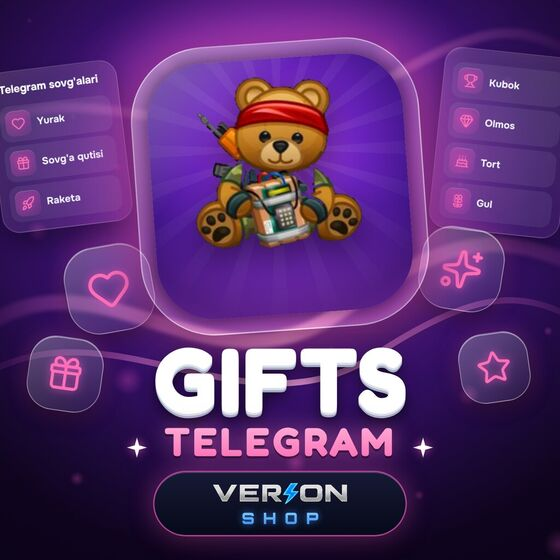
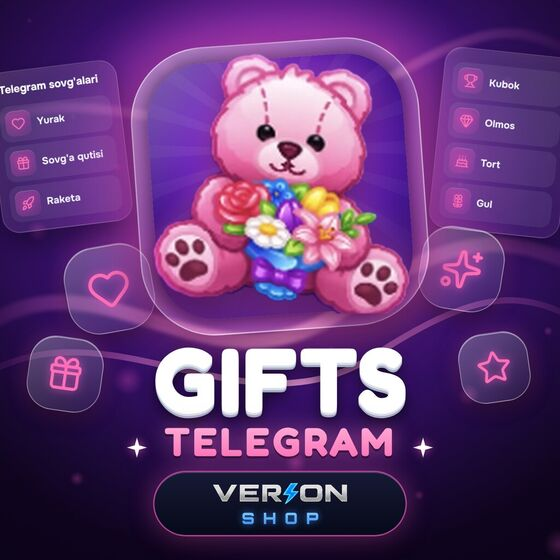
v3.36: AI muqovalar (Stars, Premium, Steam) va pushti ayiqli Gifts muqovasi
Stars, Premium va Steam muqovalari egasi bergan AI rasmlar bilan
almashtirildi, bo'sh joyga VERION SHOP logosi qo'yildi. Gifts muqovasi
o'zimizning dizaynda, o'rtada pushti ayiqcha katta qilib qo'yildi.
Landing uchun kichik rasmlar ham yangilandi.

Claude-Session: https://claude.ai/code/session_01CbtuoV2biNfcxKy98shqWf

Changed region(s): [[0.2732, 0.0911, 0.7286, 0.6071]]

diff --git a/server.js b/server.js
@@ -14,7 +14,7 @@ const ADMIN_IDS = (process.env.ADMIN_IDS || "5606872249,8684274899")
 /* Deploy belgisi — Railway rostdan yangi kodni ko'tardimi yoki eski build turibdimi,
    shuni ko'rish uchun. Profil ekranida ID ostida ko'rinadi (server/ilova alohida).
    Kod o'zgarganda shu satrni yangilab qo'yiladi. */
-const BUILD = "2026-11-06.8";
+const BUILD = "2026-11-06.9";
 // Har ishga tushishda yangi tasodifiy belgi — /api/health orqali "bu manzil aynan
 // SHU serverga olib keladimi" tekshiruvi uchun (maxfiy emas).
 const INSTANCE_ID = crypto.randomBytes(8).toString("hex");

diff --git a/verion-shop.html b/verion-shop.html
@@ -2827,7 +2827,7 @@ var ADMIN_IDS=[5606872249, 8684274899];
 /* Deploy belgisi — Profil ekranida ID ostida ko'rinadi. Ikkita raqam bo'ladi:
    birinchisi shu HTML fayl (Telegram keshi eski bo'lsa eskiligicha qoladi),
    ikkinchisi server (Railway). Ikkalasi bir xil bo'lmasa — kesh yoki deploy eski. */
-var CLIENT_BUILD="2026-11-06.8";
+var CLIENT_BUILD="2026-11-06.9";
 
 /* ===== Telegram init (guarded) ===== */
 var TG=null;

diff --git a/README.md b/README.md
@@ -381,6 +381,7 @@ Ko'rinishi ilova mavzusidan qat'i nazar doim to'q: grafit fon, Unbounded (sarlav
 - **v3.20 — Telegram Premium: kimga olishni tanlash + «Balans yetarli emas» oynasi:** `fulfill:"fragment_premium"` mahsulotlari endi alohida oqim (`openPremiumBuy`) orqali sotiladi: tepada Premium kartasi, `@USERNAME` + «Tekshirish» (`/api/fragment/check-user`, «O'zimga» tugmasi), tekshirilgach yashil karta (ism, @username, «O'zgartirish»); qabul qiluvchida Premium allaqachon bo'lsa — sariq ogohlantirish va xarid bloklanadi; paketlar (3/6/12 oy) kartochkalarda tanlanadi. Xarid yangi `POST /api/buy-premium {itemId, username}` orqali: eski `/api/buy` Premium'ni faqat xaridorning o'ziga yuborar edi. Pul `reserveBalance` bilan band qilinadi, Fragment aniq rad etsa qaytariladi, aloqa uzilsa buyurtma «kutilmoqda» bo'ladi; «allaqachon Premium» javobi `409 already_premium` (adminga signal ketmaydi). Telegram bo'limida bir nechta Premium paketi BITTA «Telegram Premium» kartasiga jamlanadi (`productGridHTML`). Balans yetmasa hamma xarid oqimlarida (Premium, Stars, sovg'a, oddiy mahsulot) bitta oyna chiqadi (`openNeedBalance`): mahsulot narxi / balans / yetishmaydi + pastda «Yopish» va «Balansni to'ldirish» (to'lov sahifasi yetishmagan summa bilan ochiladi). Mahsulot oynalari endi to'liq ekranli sahifa (`openSheet(inner,backFn,{full:true})`: tepada «Orqaga», pastda qotgan harakat paneli `.fbar`): oddiy mahsulot, tasdiqlash, Stars, sovg'a, Premium va o'yin tasdiqlash. «Balans yetarli emas» endi mustaqil qatlam (`#nbOv`, `openNeedBalance(price)`): sahifa ostida joyida qoladi; oddiy mahsulot, o'yin, Stars, sovg'a, Premium, Nakrutka, Steam, virtual raqam va skinlarda bir xil chiqadi. Stars, Premium va sovg'ada «O'zimga» ingichka tugma (`.selfBtn`, `selfBtnHTML`). Premium paketlari katalogda bo'lishi uchun admin «Oddiy mahsulot» → «Yetkazish turi: Avto-Premium (Fragment)» bilan 3/6/12 oylik mahsulot qo'shadi.
 - **v3.22 — tayyor mahsulot muqovalari:** `assets/cover-*.jpg` (1024×1024; Stars, Premium, Sovg'alar, Virtual raqam, Steam, Gemini Pro, CS2, Dota 2, Rust) — bitta uslubda (shisha plitka, 3D markaziy narsa, ikki rangli sarlavha, pastda VERION SHOP). Admin rasm qo'ymagan joylarda ilova ularni o'zi ko'rsatadi: Virtual raqam, Steam, CS2/Dota 2/Rust kartalari (`DEF_COVER`, `cardImg()`; admin qo'ygan rasm doim ustun — `cardImgSet()`), Stars (`fragment_stars_custom`) va Premium (`fragment_premium`) mahsulot plitkasi (`tileHTML`). Admin qo'ygan rasm bo'lsa o'sha ko'rinadi: yangi muqovani almashtirish uchun mahsulotdagi ✏ → rasm. Muqovalar ilova ichidagi haqiqiy ekran (Virtual raqam telefon ichida), rasmiy Stars/Steam/Gemini belgilari va 3D emoji bilan yasalgan, tashqi servislarsiz.
 - **v3.35 — Virtual raqam va CS2 muqovalari:** Virtual raqam panellarida faqat Telegram va davlat raqamlari (+998, +7, +1, +44, +90, +62). CS2 panellarida qurollarning haqiqiy oq shakllari (o'yindagi kill-feed belgilari; manba: lexogrine/cs2-react-hud, MIT litsenziya): Karambit, Butterfly, M9 Bayonet / AK-47, AWP, M4A1-S, Desert Eagle.
+- **v3.36 — AI muqovalar:** Stars, Premium va Steam muqovalari egasi bergan AI rasmlar bilan almashtirildi (pastdagi bo'sh joyga VERION SHOP logosi qo'yilgan). Gifts muqovasi — o'zimizning dizayn, o'rtadagi plitkada pushti ayiqcha (AI rasmdan kesib olingan) katta qilib qo'yilgan. Landing sahifadagi kichik rasmlar (`assets/t-*.jpg`) ham yangilandi.
 - **v3.34 — mahsulot muqovalari: yon panellarda mahsulotga oid ma'lumot:** Stars (50…5 000 Stars ro'yxati), Premium (3/6/12 oy va imkoniyatlar), Sovg'alar (sovg'a turlari), Virtual raqam (+998/+7/+1, Telegram/WhatsApp/Google/Instagram), Steam (do'kon menyusi va $5–$50 hamyon), Gemini (imkoniyatlar), CS2 (bir tomonda pichoqlar, bir tomonda qurollar), Dota 2 (haqiqiy qahramon rasmlari), Rust (qurol va buyumlar). Emoji/stiker yo'q — faqat SVG ikonkalar va haqiqiy rasmlar; plitkada faqat asosiy narsa.
 - **v3.31 — bo'limlar eski ko'rinishda, muqovalar toza:** bo'lim kartalarida (Telegram, O'yinlar, Obuna, Nakrutka) tayyor muqova endi FAQAT admin «Tayyor muqovalar»ni yoqqanda chiqadi; standart holatda — admin yuklagan rasm yoki eski ikonkali plitka (`catDefCover()` `ownCovers()` bo'lsa bo'sh qaytaradi). `assets/cover-*.jpg` (13 ta) **qo'shimcha narsalarsiz** qayta chizildi: faqat asosiy narsa + shisha plitka + sarlavha + logo (sovg'a qutisi, yurak, yulduzcha, pufak, yon panel va ikonka plitkalari olib tashlandi — ularni boshqa AI qo'shadi). Sayt kartalari (`assets/t-*.jpg`) ham shulardan qayta olindi.
 - **v3.23 — bo'lim kartalari va /start rasmi yangi uslubda:** `assets/cover-cat-{obuna,oyinlar,telegram,nakrutka}.jpg` (haqiqiy ilova belgilari shisha plitkada) — bosh sahifadagi bo'lim kartasiga admin rasm qo'ymagan bo'lsa shu chiqadi (`catDefCover`); admin qo'ygan rasm ustun. Eski rasm (matni kesilib qolgan) o'rniga yangisini qo'yish: Mahsulotlar → «🗂 Bo'limlar: nomi va rasmi» → rasm yonidagi ✕ (tayyor muqova o'zi chiqadi) yoki `cover-cat-*.jpg` ni yuklash. `assets/start-banner.png` (botdagi /start rasmi) shu uslubga o'tkazildi (server uni `size-mtime` bo'yicha qayta yuklaydi). Ismi emoji bilan boshlangan foydalanuvchining avatar harfi «�» bo'lib chiqmaydi (`firstCh`). Muqovalar skinlar bilan bir xil yasash usulida: lenta endi sarlavhani kesib o'tmaydi. Mahsulot sahifasining tepasidagi rasm endi kesilmaydi: butun muqova ko'rinadi, orqasida uning xira nusxasi (`.bgb`). Premium muqovasi rasmiy Telegram Premium yulduzi shaklida (swoosh) va rasmiy binafsha→pushti gradient bilan, Sovg'alar muqovasida haqiqiy Telegram sovg'asi (ayiqcha), Stars'da rasmiy sharlar uslubi. Steam va Gemini muqovalari rasmiy belgilar bilan (Steam: ko'k gradientli disk + oq belgi, `assets/steam.svg` — Steam sahifasining tepasida ham shu; Gemini: rasmiy shakl va ranglar). Muqovalardan emoji olib tashlandi: pastki burchaklarda haqiqiy Telegram sovg'a ayiqchasi va o'zim chizgan 3D sovg'a qutilari/yuraklar/sharlar/suhbat bulutlari (SVG shakl + yorug'lik filtri), Gemini'da rasmiy yulduzcha nusxalari. «Tayyor muqovalar» sozlamasi (`extras.coverMode`; v3.29 dan standart: O'CHIQ — admin yuklagan rasm ustun, tayyor muqova faqat rasm yo'q joyda; admin: Mahsulotlar → 🖼): yoqilsa ilovaga o'rnatilgan muqovalar admin yuklagan rasmlardan USTUN (Stars, Premium, Sovg'a, Gemini Pro, Virtual raqam, Steam, skinlar va 4 ta bo'lim kartasi); o'chirilsa — admin rasmi ko'rinadi (`ownCovers()`, `builtinCoverFor()`). Stars, Premium, Steam va Sovg'a muqovalari har biri o'z mavzusida alohida: o'qiladigan shisha panel (Stars paketlari, Premium imkoniyatlari, Steam menyusi, sovg'alar to'plami), mavzuga mos 3D narsalar (yulduzlar, tojlar, o'yin tutqichi va Steam o'yin rasmlari, ayiqcha), ikki qatorli sarlavha «Telegram / Stars». Botning standart /start matni tuzilgan ro'yxatga o'tkazildi (admin o'z matnini yozgan bo'lsa — o'sha ishlaydi).

diff --git a/.claude/skills/context/SKILL.md b/.claude/skills/context/SKILL.md
@@ -246,3 +246,4 @@ The test scripts from earlier sessions lived in the session scratchpad and are *
 - **Covers v3.31**: section cards (Telegram/O'yinlar/Obuna/Nakrutka) show a built-in cover only when `coverMode==="builtin"` (`catDefCover()` returns "" otherwise → admin image or the old icon tile). All 13 `assets/cover-*.jpg` were re-rendered WITHOUT decorative props (no boxes/hearts/stars/bubbles/side panels/chips — the user has another AI add real 3D props); generators: scratchpad `pr/p2-clean.js`, `pr/products-clean.js`, `skn/covers-clean.js` (made by `mk-clean.js` from the originals). Prompts for the other AI: scratchpad `promptlar-v5-faqat-qoshimcha.md`. User rule: props must never look like emoji.
 - **Landing v2**: live prices built client-side from public `/api/catalog` (Stars `pricePerStar*minStars`, `fragment_premium`, `telegram_gift`, `kind:"obuna"`) and `/api/games` (sections games/ai/obuna); sections/hero chips stay hidden when no data. Desktop-only QR (`/site/qr.js` = vendored qrcode-generator 1.4.4, MIT) encodes the `t.me/<bot>/<app>` link. Test: scratchpad `site-shot2.js` (routes `/api/catalog` to a saved prod catalog, decodes the QR with jsQR).
 - **Covers v3.34**: product covers (stars, premium, gifts, vnum, steam, gemini, cs2, dota2, rust) = products.js/skn layout with SVG chips kept, NO stickers/emoji, main object only in the tile, and product-themed side panels (`pr/panels-data.js` + `pr/panels-render.js`; generators `pr/products-v6.js`, `skn/covers-v6.js` made by scratchpad `mk-v6.js`). CS2 panels use names + Lucide icons because Steam CDN weapon renders are blocked in the sandbox.
+- **Covers v3.36**: stars, premium, steam covers are owner-supplied AI images with our VERION SHOP pill composited into the empty logo slot (scratchpad `ai4/`). Gifts stays our v6 layout with the pink bear (cut out from the AI image, `pr/pink-bear.png`) large in the center tile. Thumbnails `assets/t-*.jpg` are 560px copies of the covers.
